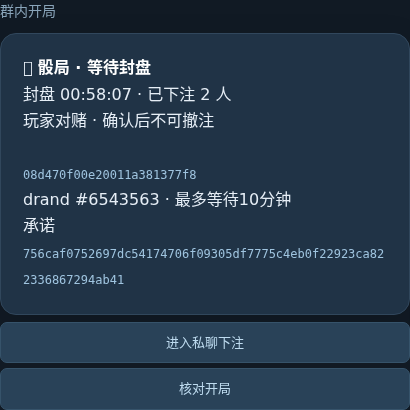
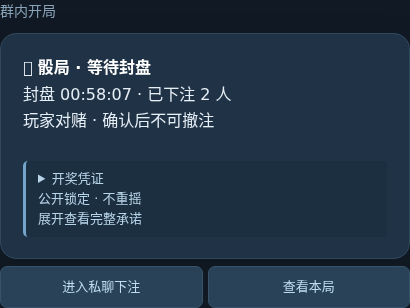
fix(dice): fold group-card proof without weakening ACK recovery

diff --git a/artifacts/dice-game/开发预览/preview.html b/artifacts/dice-game/开发预览/preview.html
@@ -1,10 +1,13 @@
-<!doctype html><html lang="zh-CN"><meta charset="utf-8"><title>骰局 · 本地开发预览</title><style>body{margin:0;background:#111a24;color:#e6eef6;font:16px/1.65 system-ui,"Noto Sans CJK SC",sans-serif}header{padding:30px 38px;border-bottom:1px solid #263749}h1{font-size:24px;margin:0}header p{font-size:13px;color:#8da5b9;margin:5px 0 0}.grid{display:grid;grid-template-columns:repeat(3,410px);gap:26px;padding:28px;align-items:start}.section h2{font-size:14px;color:#89a4b9;font-weight:500;margin:0 0 10px}.bubble{background:#203346;border:1px solid #31475c;border-radius:16px;padding:21px 22px;white-space:pre-wrap;overflow-wrap:anywhere;box-shadow:0 8px 30px #0002}code{font-size:12px;color:#9fc4df}a{color:#8bcaff;text-decoration:none;pointer-events:none}b{color:#fff;font-weight:650}.keys{margin-top:7px;display:grid;gap:5px}.keyrow{display:flex;gap:5px}.key{flex:1;background:#294258;border:1px solid #36536a;border-radius:7px;padding:9px 4px;text-align:center;color:#bedbef;font-size:13px}small{color:#829bae;font-size:11px}</style><header><h1>🎲 骰局 · 玩家对赌</h1><p>当前源码模板 · 本地预览，未向Telegram发送。真实信标模拟局：drand #6543563</p></header><main class="grid"><section class="section"><h2>群内开局</h2><div class="bubble">🎲 <b>骰局 · 等待封盘</b>
+<!doctype html><html lang="zh-CN"><meta charset="utf-8"><title>骰局 · 本地开发预览</title><style>body{margin:0;background:#111a24;color:#e6eef6;font:16px/1.65 system-ui,"Noto Sans CJK SC",sans-serif}header{padding:30px 38px;border-bottom:1px solid #263749}h1{font-size:24px;margin:0}header p{font-size:13px;color:#8da5b9;margin:5px 0 0}.grid{display:grid;grid-template-columns:repeat(3,410px);gap:26px;padding:28px;align-items:start}.section h2{font-size:14px;color:#89a4b9;font-weight:500;margin:0 0 10px}.bubble{background:#203346;border:1px solid #31475c;border-radius:16px;padding:21px 22px;white-space:pre-wrap;overflow-wrap:anywhere;box-shadow:0 8px 30px #0002}code{font-size:12px;color:#9fc4df}a{color:#8bcaff;text-decoration:none;pointer-events:none}b{color:#fff;font-weight:650}.keys{margin-top:7px;display:grid;gap:5px}.keyrow{display:flex;gap:5px}.key{flex:1;background:#294258;border:1px solid #36536a;border-radius:7px;padding:9px 4px;text-align:center;color:#bedbef;font-size:13px}small{color:#829bae;font-size:11px}details{border-left:3px solid #72a5c9;background:#1b2f40;padding:8px 12px;border-radius:5px;font-size:13px;line-height:1.55}summary{cursor:pointer;color:#b8d4e8}details[open] summary{margin-bottom:10px}</style><header><h1>🎲 骰局 · 玩家对赌</h1><p>当前源码模板 · 本地预览，未向Telegram发送。折叠引用以浏览器详情控件模拟，实际样式依Telegram客户端。真实信标模拟局：drand #6543563</p></header><main class="grid"><section class="section"><h2>群内开局</h2><div class="bubble">🎲 <b>骰局 · 等待封盘</b>
 封盘 00:58:07 · 已下注 2 人
 玩家对赌 · 确认后不可撤注
 
-<code>08d470f00e20011a381377f8</code>
-drand #6543563 · 最多等待10分钟
-承诺 <code>756caf0752697dc54174706f09305df7775c4eb0f22923ca822336867294ab41</code></div><div class="keys"><div class="keyrow"><div class="key">进入私聊下注</div></div><div class="keyrow"><div class="key">核对开局</div></div></div></section><section class="section"><h2>私聊首页</h2><div class="bubble">🎲 <b>骰局 · 08d470f0</b>
+<details><summary>开奖凭证
+公开锁定 · 不重摇
+展开查看完整承诺</summary>局号 <code>08d470f00e20011a381377f8</code>
+固定信标 drand #6543563
+承诺 <code>756caf0752697dc54174706f09305df7775c4eb0f22923ca822336867294ab41</code>
+封盘后最多等待10分钟；无有效开奖数据则全局退款，已有结果按原结果结算。</details></div><div class="keys"><div class="keyrow"><div class="key">进入私聊下注</div><div class="key">查看本局</div></div></div></section><section class="section"><h2>私聊首页</h2><div class="bubble">🎲 <b>骰局 · 08d470f0</b>
 00:58:07封盘 · 已投 0 分
 可用积分 1000
 

diff --git a/artifacts/dice-game/开发预览/render_preview.py b/artifacts/dice-game/开发预览/render_preview.py
@@ -1,5 +1,6 @@
 """Render the real source templates locally; no Telegram requests."""
 import json
+import re
 from html import escape
 from pathlib import Path
 
@@ -14,15 +15,25 @@ uid = next(iter(json.loads(record['result'])['size']['users']))
 session = {'token':'preview0123456789abcd', 'revision':3, 'user_id':uid,
            'tg_id':'901', 'payload':encode({'view':'home','draft':[]})}
 private, keys = private_card(session,row,1000,[],{})
-sections = [('群内开局', *group_card(row,2,'MediaDeckDemoBot')), ('私聊首页',private,keys)]
+group_body, group_keys = group_card(row,2,'MediaDeckDemoBot')
+(ROOT/'group-card-telegram.json').write_text(json.dumps({'text':group_body, 'parse_mode':'HTML', 'reply_markup':{'inline_keyboard':group_keys}},ensure_ascii=False,indent=2))
+sections = [('群内开局', group_body, group_keys), ('私聊首页',private,keys)]
 draft = [{'pool':'size','option':'大','amount':100}, {'pool':'single','option':'2','amount':20}, {'pool':'triple','option':'任意豹子','amount':10}]
 session['payload'] = encode({'view':'draft','draft':draft})
 sections.append(('多项确认',*private_card(session,row,1000,[],{})))
 sections.append(('最终群战报 · 真实信标模拟局',live['result']['body'],[]))
 sections.append(('本人结算 · 真实信标模拟局',live['personal_result']['body'],[]))
 css = '''body{margin:0;background:#111a24;color:#e6eef6;font:16px/1.65 system-ui,"Noto Sans CJK SC",sans-serif}header{padding:30px 38px;border-bottom:1px solid #263749}h1{font-size:24px;margin:0}header p{font-size:13px;color:#8da5b9;margin:5px 0 0}.grid{display:grid;grid-template-columns:repeat(3,410px);gap:26px;padding:28px;align-items:start}.section h2{font-size:14px;color:#89a4b9;font-weight:500;margin:0 0 10px}.bubble{background:#203346;border:1px solid #31475c;border-radius:16px;padding:21px 22px;white-space:pre-wrap;overflow-wrap:anywhere;box-shadow:0 8px 30px #0002}code{font-size:12px;color:#9fc4df}a{color:#8bcaff;text-decoration:none;pointer-events:none}b{color:#fff;font-weight:650}.keys{margin-top:7px;display:grid;gap:5px}.keyrow{display:flex;gap:5px}.key{flex:1;background:#294258;border:1px solid #36536a;border-radius:7px;padding:9px 4px;text-align:center;color:#bedbef;font-size:13px}small{color:#829bae;font-size:11px}'''
-html = '<!doctype html><html lang="zh-CN"><meta charset="utf-8"><title>骰局 · 本地开发预览</title><style>'+css+'</style><header><h1>🎲 骰局 · 玩家对赌</h1><p>当前源码模板 · 本地预览，未向Telegram发送。真实信标模拟局：drand #'+str(record['round_number'])+'</p></header><main class="grid">'
+css += 'details{border-left:3px solid #72a5c9;background:#1b2f40;padding:8px 12px;border-radius:5px;font-size:13px;line-height:1.55}summary{cursor:pointer;color:#b8d4e8}details[open] summary{margin-bottom:10px}'
+
+def browser_quote(match):
+    # Browser-only analogue: Telegram expandable quotes show a short collapsed prefix.
+    lines = match.group(1).split('\n',3)
+    return '<details><summary>'+'\n'.join(lines[:3])+'</summary>'+lines[3]+'</details>'
+
+html = '<!doctype html><html lang="zh-CN"><meta charset="utf-8"><title>骰局 · 本地开发预览</title><style>'+css+'</style><header><h1>🎲 骰局 · 玩家对赌</h1><p>当前源码模板 · 本地预览，未向Telegram发送。折叠引用以浏览器详情控件模拟，实际样式依Telegram客户端。真实信标模拟局：drand #'+str(record['round_number'])+'</p></header><main class="grid">'
 for label,body,keyboard in sections:
+    body = re.sub(r'<blockquote expandable>(.*?)</blockquote>',browser_quote,body,flags=re.DOTALL)
     html += '<section class="section"><h2>'+escape(label)+'</h2><div class="bubble">'+body+'</div><div class="keys">'
     for line in keyboard:
         html += '<div class="keyrow">'+''.join('<div class="key">'+escape(b['text'])+'</div>' for b in line)+'</div>'
@@ -38,4 +49,11 @@ if __name__ == '__main__':
         page.screenshot(path=str(ROOT/'preview.png'),full_page=True)
         for i, element in enumerate(page.locator('.section').all(),1):
             element.screenshot(path=str(ROOT/f'card-{i}.png'))
+        quote = page.locator('details').first
+        assert not quote.evaluate('(el)=>el.open')
+        assert record['commitment'] not in page.locator('.section').first.inner_text()
+        quote.locator('summary').click()
+        assert record['commitment'] in page.locator('.section').first.inner_text()
+        assert page.locator('.bubble').evaluate_all('(xs)=>xs.every(x=>x.scrollWidth<=x.clientWidth)')
+        page.locator('.section').first.screenshot(path=str(ROOT/'card-1-expanded.png'))
         browser.close()

diff --git a/backend/tests/test_dice_group_view.py b/backend/tests/test_dice_group_view.py
@@ -1,0 +1,50 @@
+"""Group-card presentation only: compact surface, retained public proof and ACK button."""
+from html.parser import HTMLParser
+
+import pytest
+
+from app.modules.dice_view import group_card
+
+
+class QuoteParser(HTMLParser):
+    def __init__(self):
+        super().__init__()
+        self.attrs = []
+        self.quoted = []
+        self.surface = []
+        self.in_quote = False
+
+    def handle_starttag(self, tag, attrs):
+        if tag == 'blockquote':
+            self.attrs.append(dict(attrs))
+            self.in_quote = True
+
+    def handle_endtag(self, tag):
+        if tag == 'blockquote':
+            self.in_quote = False
+
+    def handle_data(self, data):
+        (self.quoted if self.in_quote else self.surface).append(data)
+
+
+@pytest.mark.parametrize('state', ['opening', 'open', 'locked', 'fixed'])
+def test_group_card_keeps_complete_public_commitment_in_expandable_quote(state):
+    row = {'nonce': '1234567890abcdef12345678', 'round_number': 6543563,
+           'commitment': 'ab'*32, 'deadline': 1791737887, 'state': state}
+    body, keys = group_card(row, 8, 'MediaDeckDemoBot')
+    parsed = QuoteParser()
+    parsed.feed(body)
+    assert parsed.attrs == [{'expandable': None}]
+    surface, proof = ''.join(parsed.surface), ''.join(parsed.quoted)
+    for value in (row['nonce'], row['commitment'], str(row['round_number']), '10分钟'):
+        assert value not in surface
+        assert value in proof
+    collapsed_prefix = '\n'.join(proof.splitlines()[:3])
+    assert row['commitment'] not in collapsed_prefix and row['nonce'] not in collapsed_prefix
+    assert '封盘' in surface and '已下注 8 人' in surface
+    assert '玩家对赌 · 确认后不可撤注' in surface
+    assert '无有效开奖数据则全局退款，已有结果按原结果结算' in proof
+    assert body.count(row['commitment']) == 1
+    assert len(keys) == 1
+    assert keys[0][0]['url'] == 'https://t.me/MediaDeckDemoBot?start=dice_'+row['nonce']
+    assert keys[0][1] == {'text': '查看本局', 'callback_data': 'dcg:'+row['nonce']}

diff --git a/backend/app/modules/dice_view.py b/backend/app/modules/dice_view.py
@@ -37,9 +37,12 @@ def group_card(row, participants, username):
     opened = row['state'] in ('opening', 'open')
     title = '等待封盘' if opened else '已封盘 · 开奖中' if row['state'] == 'locked' else '结果送达中'
     body = f'🎲 <b>骰局 · {title}</b>\n封盘 {clock(row["deadline"])} · 已下注 {participants} 人\n玩家对赌 · 确认后不可撤注'
-    body += f'\n\n<code>{row["nonce"]}</code>\ndrand #{row["round_number"]} · 最多等待10分钟\n承诺 <code>{row["commitment"]}</code>'
-    keys = [[{'text': '进入私聊下注' if opened else '我的投注 · 验真', 'url': f'https://t.me/{username}?start=dice_{row["nonce"]}'}],
-            [{'text': '核对开局', 'callback_data': f'dcg:{row["nonce"]}'}]]
+    body += ('\n\n<blockquote expandable>开奖凭证\n公开锁定 · 不重摇\n展开查看完整承诺'
+             f'\n局号 <code>{row["nonce"]}</code>\n固定信标 drand #{row["round_number"]}'
+             f'\n承诺 <code>{row["commitment"]}</code>'
+             '\n封盘后最多等待10分钟；无有效开奖数据则全局退款，已有结果按原结果结算。</blockquote>')
+    keys = [[{'text': '进入私聊下注' if opened else '我的投注 · 验真', 'url': f'https://t.me/{username}?start=dice_{row["nonce"]}'},
+             {'text': '查看本局', 'callback_data': f'dcg:{row["nonce"]}'}]]
     return body, keys
 
 
